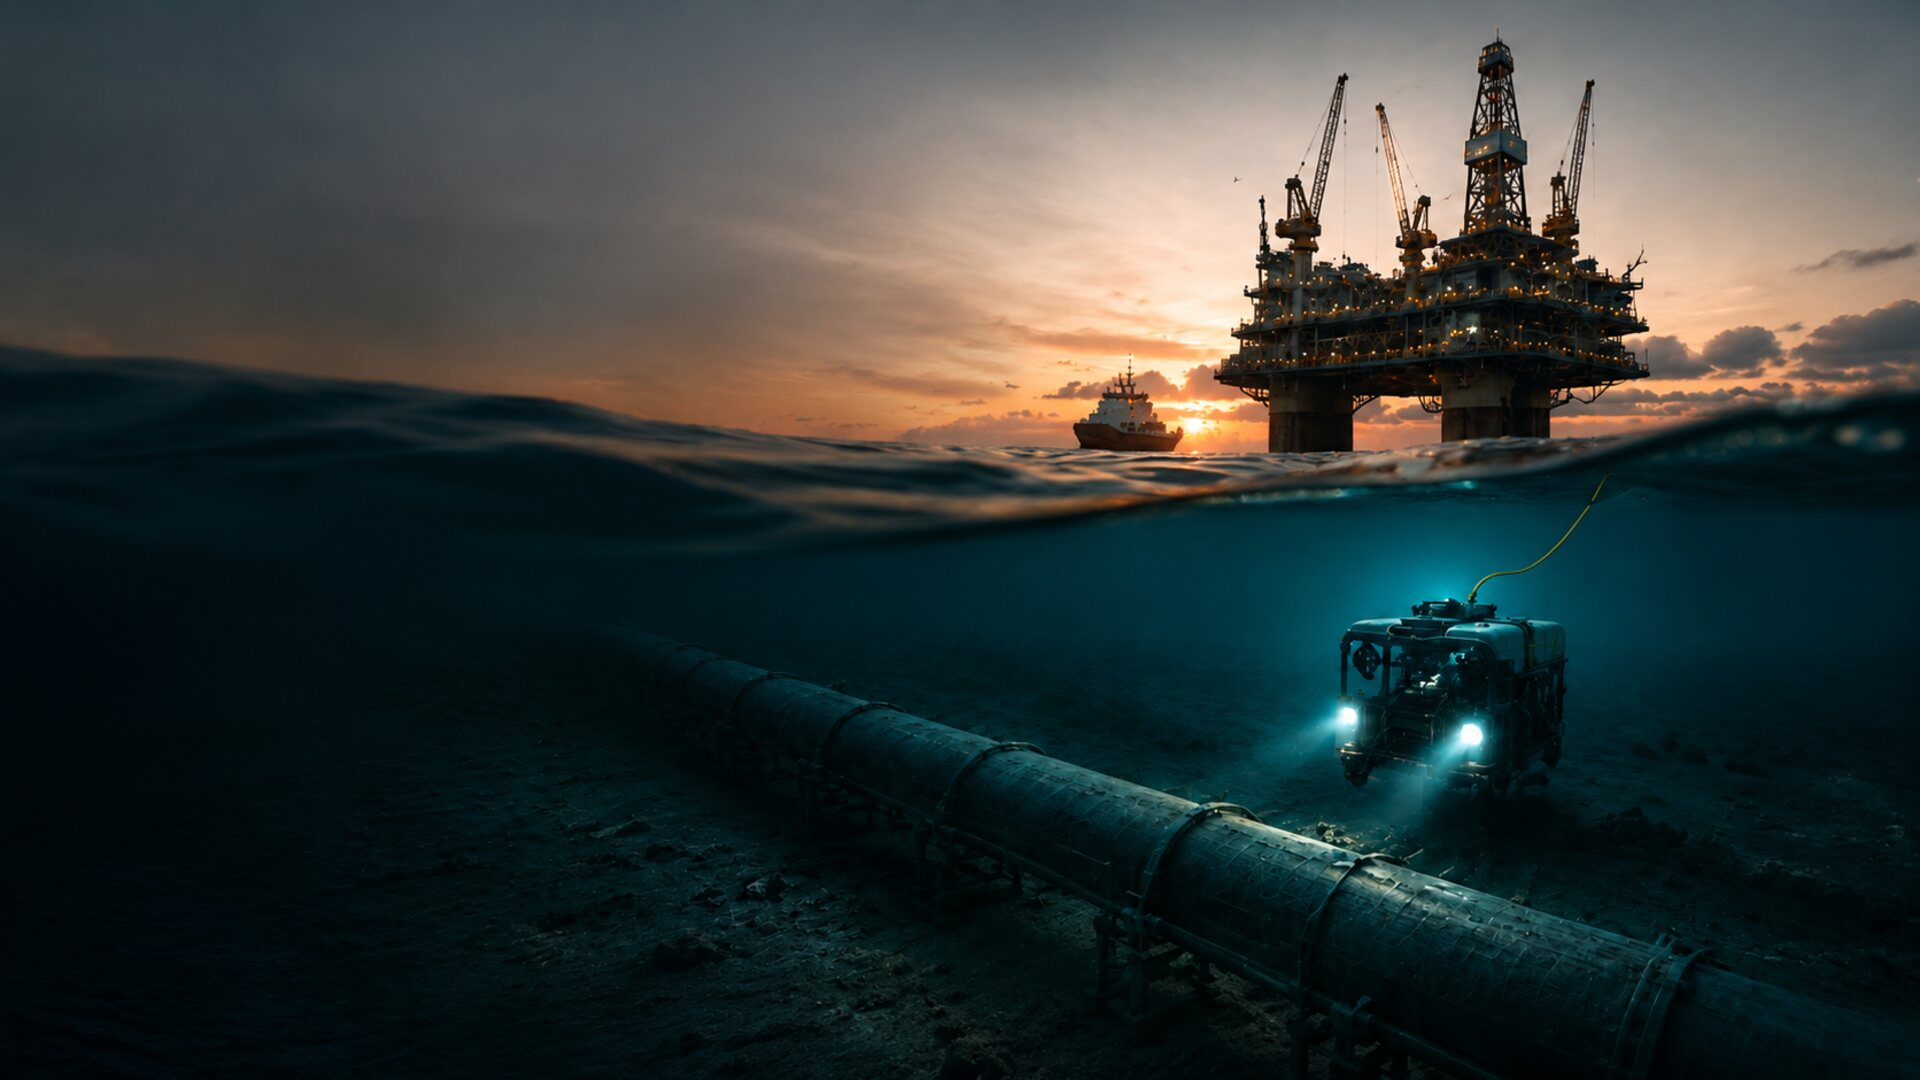
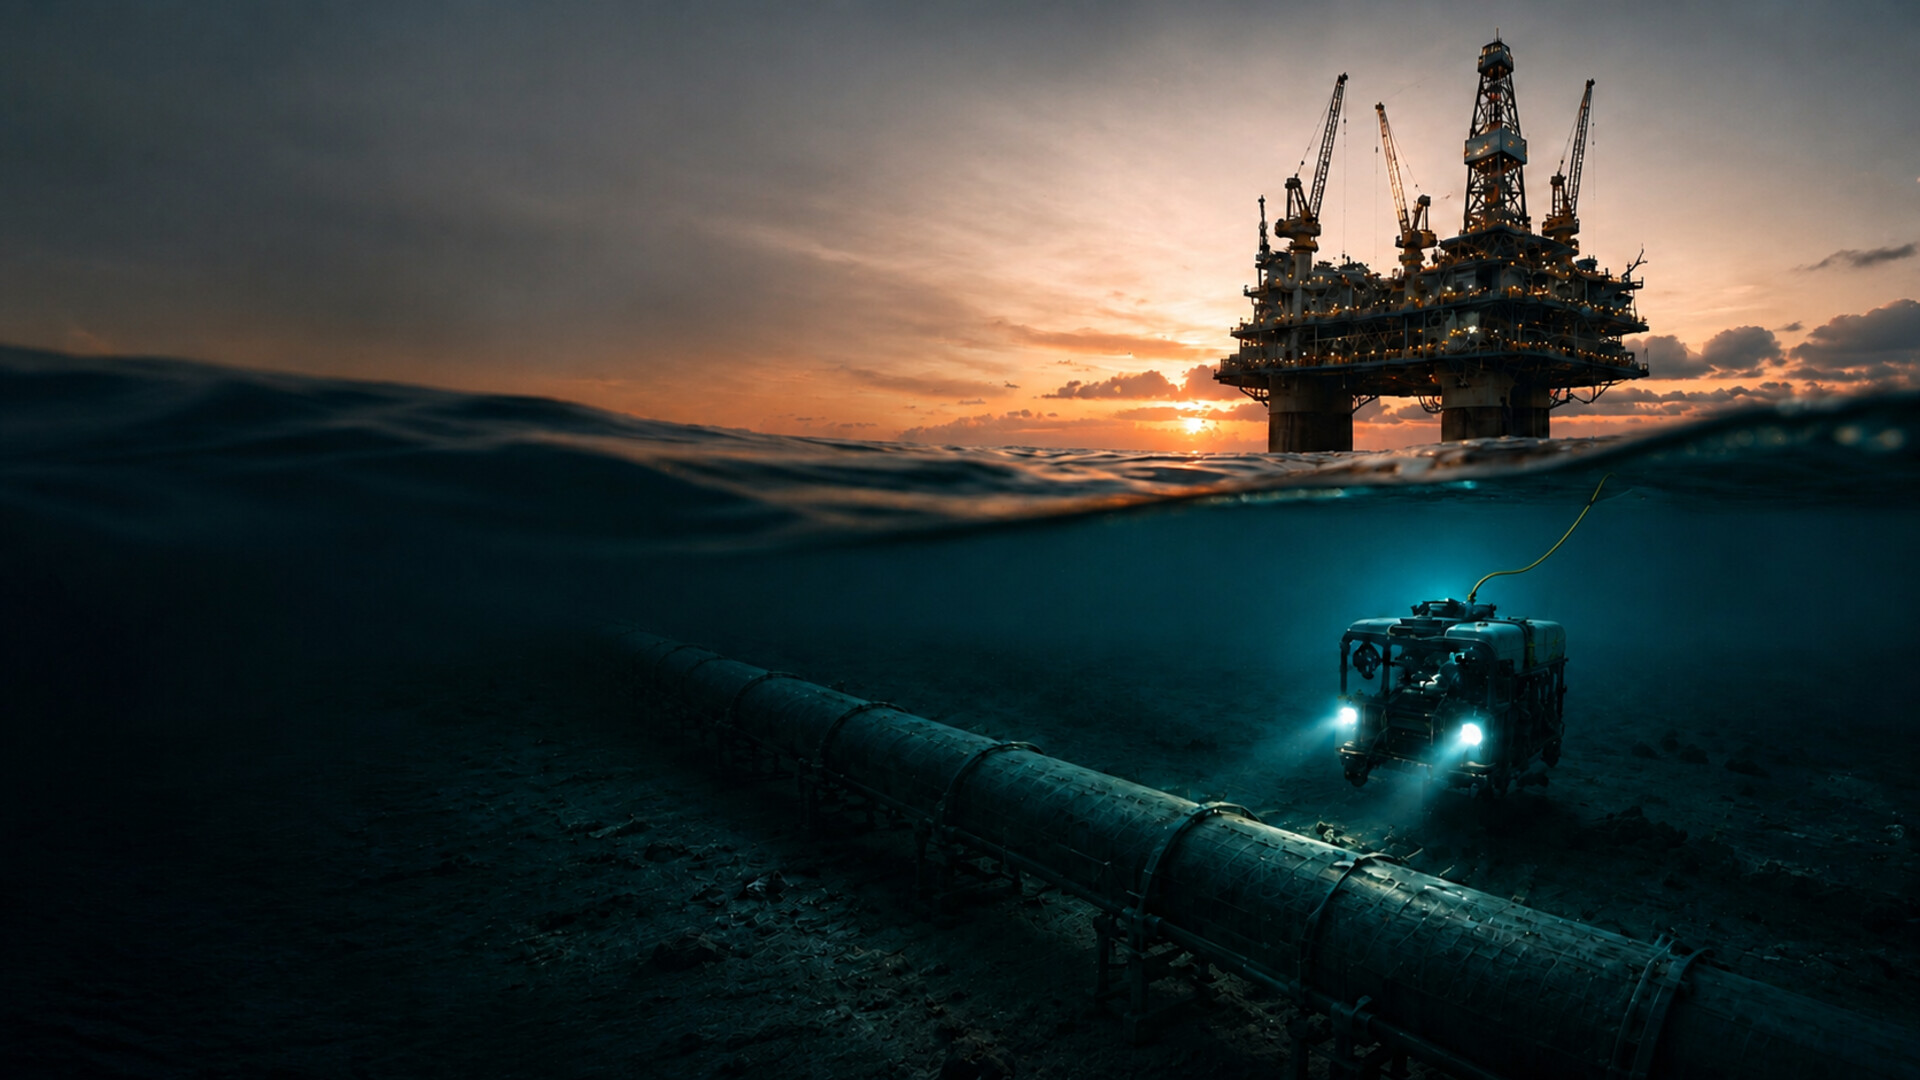
Redesign capabilities and update hero image

diff --git a/app/globals.css b/app/globals.css
@@ -55,26 +55,33 @@ h1 .muted { color:rgba(155,165,167,.47); }
 .scrollCue { position:absolute; left:30px; bottom:38px; display:flex; flex-direction:column; align-items:center; gap:15px; }
 .scrollCue span,.verticalLabel { writing-mode:vertical-rl; transform:rotate(180deg); text-transform:uppercase; font-size:9px; letter-spacing:.14em; }
 .scrollCue i { width:1px; height:40px; background:rgba(255,255,255,.6); }
-.capabilities { min-height:288px; display:grid; grid-template-columns:320px 1fr; padding-left:clamp(28px,5.3vw,88px); background:#071014; border-bottom:1px solid var(--line); }
-.sectionLead { padding:40px 40px 35px 0; }
-.sectionLead h2 { margin:13px 0 26px; font-size:27px; text-transform:uppercase; line-height:1.05; font-weight:500; letter-spacing:-.03em; }
+.capabilities { min-height:380px; display:grid; grid-template-columns:340px 1fr; padding-left:clamp(28px,5.3vw,88px); background:radial-gradient(circle at 75% 120%,rgba(0,91,104,.2),transparent 34%),#071014; border-bottom:1px solid var(--line); position:relative; overflow:hidden; }
+.capabilities:before { content:""; position:absolute; inset:0; opacity:.13; pointer-events:none; background-image:linear-gradient(rgba(255,255,255,.08) 1px,transparent 1px),linear-gradient(90deg,rgba(255,255,255,.06) 1px,transparent 1px); background-size:60px 60px; mask-image:linear-gradient(90deg,transparent,#000); }
+.capabilityBackdrop { position:absolute; right:2vw; top:-30px; color:rgba(255,255,255,.018); font-size:clamp(80px,11vw,180px); font-weight:800; letter-spacing:-.07em; pointer-events:none; }
+.sectionLead { padding:48px 38px 40px 0; position:relative; z-index:1; display:flex; flex-direction:column; }
+.sectionLead > div:first-child { display:flex; align-items:center; justify-content:space-between; }
+.activeCounter { font-size:9px; letter-spacing:.16em; color:var(--red); }
+.sectionLead h2 { margin:15px 0 20px; font-size:29px; text-transform:uppercase; line-height:1.03; font-weight:500; letter-spacing:-.035em; }
+.activeServiceCopy { min-height:66px; margin:0 0 28px; color:rgba(255,255,255,.48); font-size:11px; line-height:1.6; max-width:275px; transition:opacity .25s; }
 .sectionLead a { font-size:10px; text-transform:uppercase; text-decoration:underline; display:flex; gap:12px; align-items:center; width:max-content; }
-.capabilityGrid { display:grid; grid-template-columns:repeat(6,1fr); }
-.capabilityCard { border-left:1px solid var(--line); padding:38px 20px 28px; min-width:0; display:flex; flex-direction:column; transition:transform .36s,background .36s,border-color .36s; position:relative; overflow:hidden; isolation:isolate; }
+.capabilityGrid { display:grid; grid-template-columns:repeat(6,1fr); position:relative; z-index:1; align-items:stretch; }
+.capabilityCard { border-left:1px solid var(--line); padding:36px 18px 34px; min-width:0; min-height:380px; display:flex; flex-direction:column; transition:background .36s,border-color .36s,opacity .36s; position:relative; overflow:hidden; isolation:isolate; }
 .capabilityCard:before { content:""; position:absolute; top:0; left:0; right:100%; height:2px; background:var(--red); transition:right .38s cubic-bezier(.2,.8,.2,1); }
 .capabilityCard:after { content:""; position:absolute; width:190px; height:190px; right:-80px; bottom:-110px; border-radius:50%; background:rgba(0,118,136,.18); filter:blur(25px); opacity:0; transition:.4s; z-index:-1; }
-.capabilityGrid:hover .capabilityCard:not(:hover) { opacity:.62; }
-.capabilityCard:hover { background:rgba(255,255,255,.045); border-color:rgba(255,255,255,.28); transform:translateY(-7px); opacity:1 !important; }
-.capabilityCard:hover:before { right:0; }
-.capabilityCard:hover:after { opacity:1; }
-.cardIndex { color:rgba(255,255,255,.18); font-size:23px; font-weight:700; margin-bottom:30px; transition:.35s; }
+.capabilityGrid:hover .capabilityCard:not(:hover) { opacity:.52; }
+.capabilityCard:hover,.capabilityCard.isActive { background:linear-gradient(180deg,rgba(255,255,255,.05),rgba(0,97,111,.1)); border-color:rgba(255,255,255,.28); opacity:1 !important; }
+.capabilityCard:hover:before,.capabilityCard.isActive:before { right:0; }
+.capabilityCard:hover:after,.capabilityCard.isActive:after { opacity:1; }
+.cardIndex { color:rgba(255,255,255,.2); font-size:22px; font-weight:700; margin-bottom:32px; transition:.35s; }
 .capabilityCard svg { color:rgba(255,255,255,.78); margin-bottom:18px; transition:transform .35s,color .35s; }
-.capabilityCard:hover .cardIndex { color:var(--red); }
-.capabilityCard:hover > svg:not(.cardArrow) { color:#fff; transform:scale(1.1); }
-.capabilityCard h3 { font-size:14px; line-height:1.2; text-transform:uppercase; margin:0; font-weight:500; }
-.capabilityCard h3 span { display:block; }
-.cardArrow { margin-top:auto !important; margin-bottom:0 !important; }
-.capabilityCard:hover .cardArrow { transform:translate(5px,5px); color:var(--red); }
+.capabilityCard:hover .cardIndex,.capabilityCard.isActive .cardIndex { color:var(--red); }
+.capabilityCard:hover > .serviceIcon,.capabilityCard.isActive > .serviceIcon { color:#fff; transform:translateY(-4px) scale(1.04); }
+.capabilityCard h3 { font-size:13px; line-height:1.25; text-transform:uppercase; margin:2px 0 0; font-weight:600; max-width:130px; }
+.serviceIcon { width:50px; height:50px; }
+.cardExplore { margin-top:auto; padding-top:28px; font-size:8px; letter-spacing:.1em; text-transform:uppercase; color:rgba(255,255,255,.28); transition:.3s; }
+.cardArrow { margin:13px 0 0 !important; flex:none; }
+.capabilityCard:hover .cardExplore,.capabilityCard.isActive .cardExplore { color:rgba(255,255,255,.7); }
+.capabilityCard:hover .cardArrow,.capabilityCard.isActive .cardArrow { transform:translate(5px,3px); color:var(--red); }
 .impact { background:var(--paper); color:#091116; min-height:305px; padding:56px clamp(28px,5.3vw,88px); display:grid; grid-template-columns:45px 1.25fr 1fr; gap:35px; position:relative; }
 .verticalLabel { border-right:1px solid rgba(7,16,20,.15); padding-right:20px; }
 .statsGrid { display:grid; grid-template-columns:repeat(4,1fr); align-items:center; }
@@ -95,9 +102,9 @@ h1 .muted { color:rgba(155,165,167,.47); }
 .light { margin-top:0; }
 @media (max-width:1200px) {
   .desktopNav { gap:20px; }
-  .capabilities { grid-template-columns:280px 1fr; }
+  .capabilities { grid-template-columns:300px 1fr; }
   .capabilityGrid { grid-template-columns:repeat(3,1fr); }
-  .capabilityCard { min-height:245px; }
+  .capabilityCard { min-height:290px; }
   .impact { grid-template-columns:45px 1fr; }
   .presence { grid-column:2; min-height:180px; }
 }
@@ -135,7 +142,7 @@ h1 .muted { color:rgba(155,165,167,.47); }
   .capabilities { padding-left:20px; }
   .sectionLead { padding:45px 20px 38px 0; }
   .capabilityGrid { grid-template-columns:repeat(2,1fr); }
-  .capabilityCard { min-height:220px; padding:25px 16px; }
+  .capabilityCard { min-height:255px; padding:25px 16px 28px; }
   .cardIndex { margin-bottom:20px; }
   .impact { padding:52px 20px; gap:42px; }
   .statsGrid { grid-template-columns:repeat(2,1fr); row-gap:35px; }

diff --git a/app/components/capabilities-section.tsx b/app/components/capabilities-section.tsx
@@ -1,0 +1,40 @@
+"use client";
+
+import { ArrowDownRight, ArrowRight } from "@phosphor-icons/react";
+import { useState } from "react";
+import { DigitalNodesIcon, EngineerIcon, PartnershipIcon, PipelineShieldIcon, PlatformIcon, RovIcon } from "./service-icons";
+
+const services = [
+  { index:"01", title:"Engineering Solutions", short:"ENGINEERING", description:"End-to-end engineering and project solutions for complex energy infrastructure.", icon:PlatformIcon },
+  { index:"02", title:"Autonomy & Robotics", short:"ROBOTICS", description:"Intelligent subsea systems that extend inspection reach and reduce operational risk.", icon:RovIcon },
+  { index:"03", title:"Asset Integrity", short:"INTEGRITY", description:"Pipeline and asset assurance designed to protect performance across the lifecycle.", icon:PipelineShieldIcon },
+  { index:"04", title:"Digital Integration", short:"DIGITAL", description:"Connected data and technology solutions that enable faster, smarter decisions.", icon:DigitalNodesIcon },
+  { index:"05", title:"Talent & Skills", short:"TALENT", description:"Industry-led capability development for the energy workforce of tomorrow.", icon:EngineerIcon },
+  { index:"06", title:"Technology Partnerships", short:"PARTNERSHIPS", description:"Global technology alliances delivering proven innovation to regional operations.", icon:PartnershipIcon },
+];
+
+export function CapabilitiesSection() {
+  const [active, setActive] = useState(0);
+  return (
+    <section className="capabilities" id="capabilities">
+      <div className="capabilityBackdrop" aria-hidden="true">CAPABILITIES</div>
+      <div className="sectionLead">
+        <div><p className="eyebrow">What we do</p><span className="activeCounter">{services[active].index} / 06</span></div>
+        <h2>Integrated solutions.<br />Measurable impact.</h2>
+        <p className="activeServiceCopy">{services[active].description}</p>
+        <a href="#contact">View all solutions <ArrowRight size={14} /></a>
+      </div>
+      <div className="capabilityGrid" onMouseLeave={() => setActive(0)}>
+        {services.map(({ index, title, icon:Icon }, position) => (
+          <a href="#contact" className={`capabilityCard ${active === position ? "isActive" : ""}`} key={index} onMouseEnter={() => setActive(position)} onFocus={() => setActive(position)}>
+            <span className="cardIndex">{index}</span>
+            <Icon className="serviceIcon" />
+            <h3>{title}</h3>
+            <span className="cardExplore">Explore service</span>
+            <ArrowDownRight className="cardArrow" size={18} weight="light" />
+          </a>
+        ))}
+      </div>
+    </section>
+  );
+}

diff --git a/app/page.tsx b/app/page.tsx
@@ -1,26 +1,11 @@
 import Image from "next/image";
 import {
   ArrowDownRight,
-  ArrowRight,
-  Buildings,
-  Cpu,
-  GearSix,
-  Handshake,
-  ShieldCheck,
-  UsersThree,
 } from "@phosphor-icons/react/dist/ssr";
 import { MobileMenu } from "./components/mobile-menu";
 import { AnimationController } from "./components/animation-controller";
 import { SiteNav } from "./components/site-nav";
-
-const capabilities = [
-  { index: "01", title: "Engineering\nSolutions", icon: GearSix },
-  { index: "02", title: "Autonomy &\nRobotics", icon: Cpu },
-  { index: "03", title: "Asset\nIntegrity", icon: ShieldCheck },
-  { index: "04", title: "Digital\nIntegration", icon: Buildings },
-  { index: "05", title: "Talent &\nSkills", icon: UsersThree },
-  { index: "06", title: "Technology\nPartnerships", icon: Handshake },
-];
+import { CapabilitiesSection } from "./components/capabilities-section";
 
 const stats = [
   { value: "20+", label: "Years of\nexperience" },
@@ -89,23 +74,7 @@ export default function Home() {
         <div className="scrollCue"><span>Scroll</span><i /></div>
       </section>
 
-      <section className="capabilities" id="capabilities">
-        <div className="sectionLead">
-          <p className="eyebrow">What we do</p>
-          <h2>Integrated solutions.<br />Measurable impact.</h2>
-          <a href="#solutions">View all solutions <ArrowRight size={14} /></a>
-        </div>
-        <div className="capabilityGrid">
-          {capabilities.map(({ index, title, icon: Icon }) => (
-            <a href="#contact" className="capabilityCard" key={index}>
-              <span className="cardIndex">{index}</span>
-              <Icon size={39} weight="thin" />
-              <h3>{title.split("\n").map((line) => <span key={line}>{line}</span>)}</h3>
-              <ArrowDownRight className="cardArrow" size={18} weight="light" />
-            </a>
-          ))}
-        </div>
-      </section>
+      <CapabilitiesSection />
 
       <section className="impact" id="about">
         <div className="verticalLabel">Our impact</div>

diff --git a/app/components/service-icons.tsx b/app/components/service-icons.tsx
@@ -1,0 +1,11 @@
+import type { SVGProps } from "react";
+
+type IconProps = SVGProps<SVGSVGElement>;
+const base = { width: 54, height: 54, viewBox: "0 0 64 64", fill: "none", stroke: "currentColor", strokeWidth: 1.5, strokeLinecap: "round" as const, strokeLinejoin: "round" as const, "aria-hidden": true };
+
+export function PlatformIcon(props: IconProps) { return <svg {...base} {...props}><path d="M9 52h46M15 52V29h34v23M20 29l5-17h14l5 17M23 42h18M21 52l4-10 4 10M35 52l4-10 4 10M32 12V5M28 17h8"/><path d="M12 29h40M18 24h28"/></svg>; }
+export function RovIcon(props: IconProps) { return <svg {...base} {...props}><rect x="13" y="21" width="37" height="25" rx="5"/><path d="M20 21v-7h20v7M19 46l-5 7M44 46l5 7M50 29h6v10h-6M13 29H8v10h5M25 27h14v13H25zM28 33h8M32 27v13"/><circle cx="19" cy="34" r="2.5"/><circle cx="45" cy="34" r="2.5"/></svg>; }
+export function PipelineShieldIcon(props: IconProps) { return <svg {...base} {...props}><path d="M7 39h20M37 39h20M7 31h20M37 31h20M11 31v8M18 31v8M46 31v8M53 31v8M32 10l14 6v11c0 11-6 19-14 24-8-5-14-13-14-24V16l14-6z"/><path d="m26 29 4 4 8-9"/></svg>; }
+export function DigitalNodesIcon(props: IconProps) { return <svg {...base} {...props}><rect x="23" y="23" width="18" height="18" rx="3"/><circle cx="9" cy="13" r="4"/><circle cx="55" cy="13" r="4"/><circle cx="9" cy="51" r="4"/><circle cx="55" cy="51" r="4"/><path d="m12 16 12 10M52 16 40 26M12 48l12-10M52 48 40 38M32 23V9M32 55V41M28 9h8M28 55h8"/></svg>; }
+export function EngineerIcon(props: IconProps) { return <svg {...base} {...props}><path d="M18 27c0-10 6-17 14-17s14 7 14 17M15 27h34M21 27v4a11 11 0 0 0 22 0v-4M10 55c2-10 10-16 22-16s20 6 22 16M32 10v10M26 11v9M38 11v9"/><path d="m25 42 7 8 7-8"/></svg>; }
+export function PartnershipIcon(props: IconProps) { return <svg {...base} {...props}><circle cx="32" cy="32" r="23"/><path d="M9 32h46M32 9c7 7 11 14 11 23S39 48 32 55M32 9c-7 7-11 14-11 23s4 16 11 23M14 20h36M14 44h36"/><path d="m22 35 6 5 14-15" strokeWidth="2"/></svg>; }
